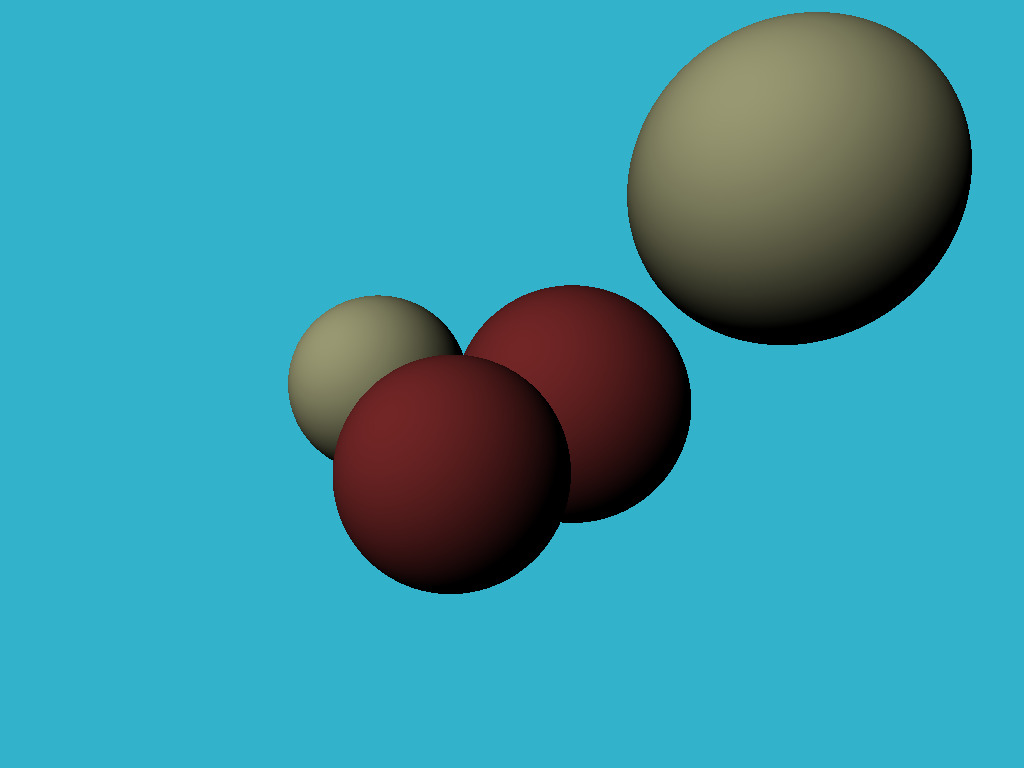
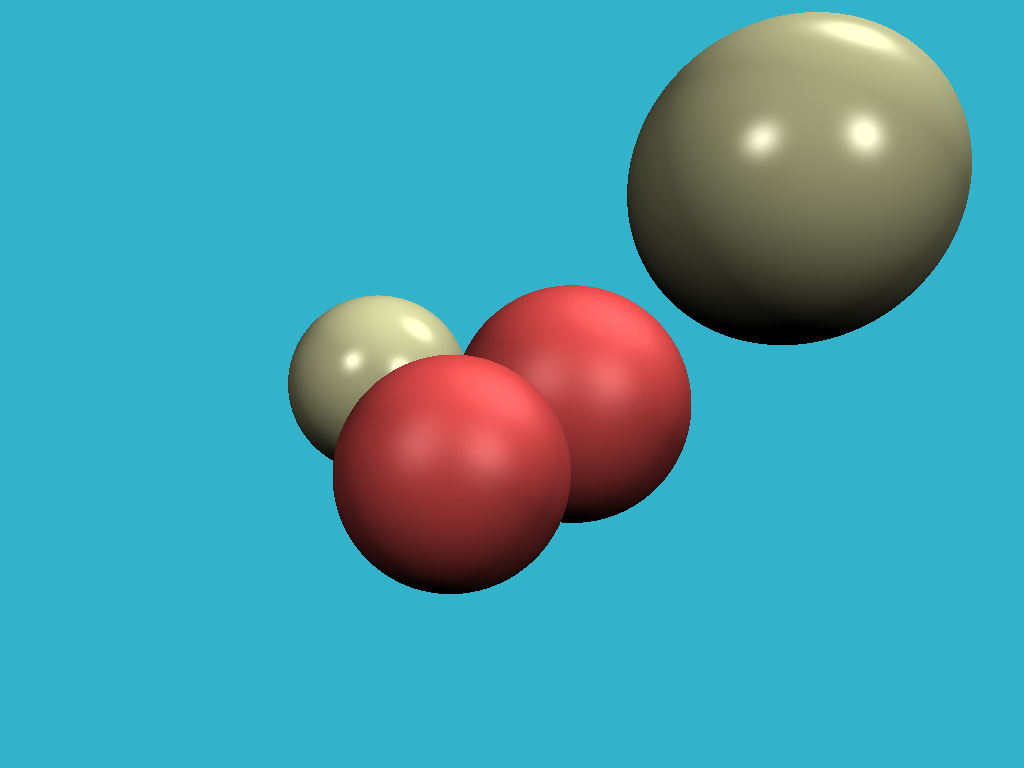
specular lighting

Changed region(s): [[0.2812, 0.375, 0.6875, 0.7812], [0.5938, 0.0, 0.9688, 0.4062]]

diff --git a/tinyraytracer.cpp b/tinyraytracer.cpp
@@ -12,9 +12,11 @@ struct Light {
 };
 
 struct Material {
-    Material(const Vec3f &color) : diffuse_color(color) {}
-    Material() : diffuse_color() {}
+    Material(const Vec2f &a, const Vec3f &color, const float &spec) : albedo(a), diffuse_color(color), specular_exponent(spec) {}
+    Material() : albedo(1,0), diffuse_color(), specular_exponent() {}
+    Vec2f albedo;
     Vec3f diffuse_color;
+    float specular_exponent;
 };
 
 struct Sphere {
@@ -38,6 +40,10 @@ struct Sphere {
     }
 };
 
+Vec3f reflect(const Vec3f &I, const Vec3f &N) {
+    return I - N*2.f*(I*N);
+}
+
 bool scene_intersect(const Vec3f &orig, const Vec3f &dir, const std::vector<Sphere> &spheres, Vec3f &hit, Vec3f &N, Material &material) {
     float spheres_dist = std::numeric_limits<float>::max();
     for (size_t i=0; i < spheres.size(); i++) {
@@ -60,12 +66,14 @@ Vec3f cast_ray(const Vec3f &orig, const Vec3f &dir, const std::vector<Sphere> &s
         return Vec3f(0.2, 0.7, 0.8); // background color
     }
 
-    float diffuse_light_intensity = 0;
+    float diffuse_light_intensity = 0, specular_light_intensity = 0;
     for (size_t i=0; i<lights.size(); i++) {
         Vec3f light_dir      = (lights[i].position - point).normalize();
+
         diffuse_light_intensity  += lights[i].intensity * std::max(0.f, light_dir*N);
+        specular_light_intensity += powf(std::max(0.f, -reflect(-light_dir, N)*dir), material.specular_exponent)*lights[i].intensity;
     }
-    return material.diffuse_color * diffuse_light_intensity;
+    return material.diffuse_color * diffuse_light_intensity * material.albedo[0] + Vec3f(1., 1., 1.)*specular_light_intensity * material.albedo[1];
 }
 
 void render(const std::vector<Sphere> &spheres, const std::vector<Light> &lights) {
@@ -88,6 +96,9 @@ void render(const std::vector<Sphere> &spheres, const std::vector<Light> &lights
     ofs.open("./out.ppm");
     ofs << "P6\n" << width << " " << height << "\n255\n";
     for (size_t i = 0; i < height*width; ++i) {
+        Vec3f &c = framebuffer[i];
+        float max = std::max(c[0], std::max(c[1], c[2]));
+        if (max>1) c = c*(1./max);
         for (size_t j = 0; j<3; j++) {
             ofs << (char)(255 * std::max(0.f, std::min(1.f, framebuffer[i][j])));
         }
@@ -96,8 +107,8 @@ void render(const std::vector<Sphere> &spheres, const std::vector<Light> &lights
 }
 
 int main() {
-    Material      ivory(Vec3f(0.4, 0.4, 0.3));
-    Material red_rubber(Vec3f(0.3, 0.1, 0.1));
+    Material      ivory(Vec2f(0.6,  0.3), Vec3f(0.4, 0.4, 0.3),   50.);
+    Material red_rubber(Vec2f(0.9,  0.1), Vec3f(0.3, 0.1, 0.1),   10.);
 
     std::vector<Sphere> spheres;
     spheres.push_back(Sphere(Vec3f(-3,    0,   -16), 2,      ivory));
@@ -107,6 +118,8 @@ int main() {
 
     std::vector<Light>  lights;
     lights.push_back(Light(Vec3f(-20, 20,  20), 1.5));
+    lights.push_back(Light(Vec3f( 30, 50, -25), 1.8));
+    lights.push_back(Light(Vec3f( 30, 20,  30), 1.7));
 
     render(spheres, lights);
 
